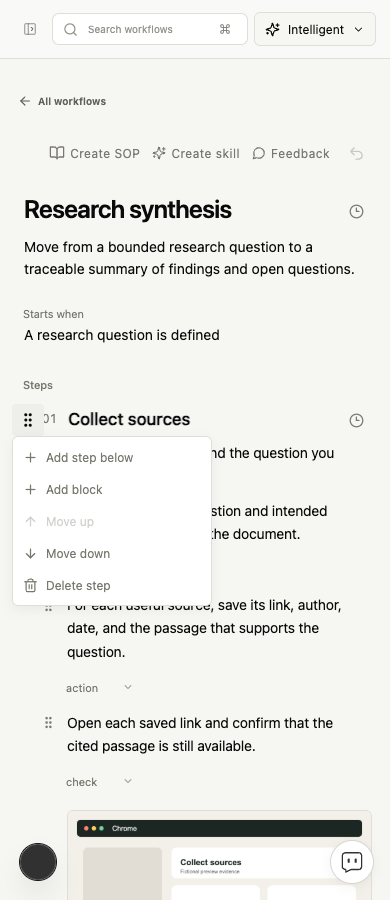
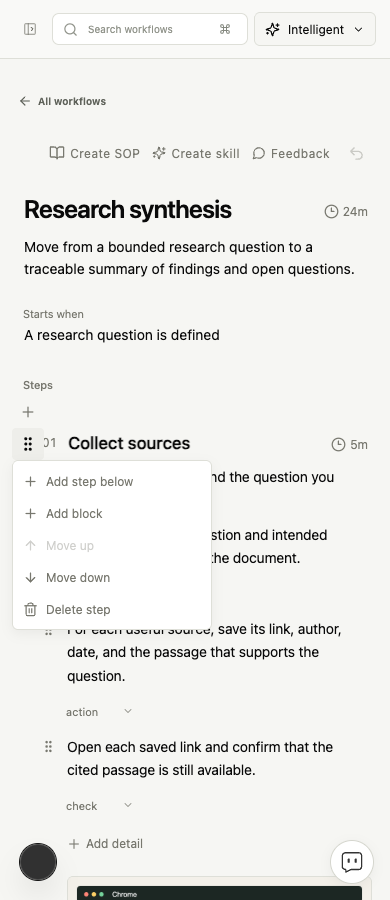
fix(workflows): restore plus controls and disclose measured timing

diff --git a/packages/workflows-ui/src/workflow-editor.tsx b/packages/workflows-ui/src/workflow-editor.tsx
@@ -1,7 +1,7 @@
 // screenpipe — AI that knows everything you've seen, said, or heard
 // https://screenpipe.com
 "use client";
-import { useEffect, useRef, useState, type ReactNode } from "react";
+import { Fragment, useEffect, useRef, useState, type ReactNode } from "react";
 import {
   ArrowDown,
   ArrowUp,
@@ -187,6 +187,15 @@ export function WorkflowEditor({ workflow, save, actions, renderSource, stepsOnl
     closeStepMenu(false);
     focusField(`Block ${stage.procedure.length + 1} in step ${index + 1}`);
   }
+  function insertion(index: number) {
+    return <div className={styles.insertion}>
+      <button type="button" aria-label={index === 0 ? "Add step at start" : `Add step after ${index}`}
+        title="Add step" disabled={draft.stages.length >= 100} onClick={() => addStage(index)}>
+        <Plus size={16} aria-hidden="true" />
+      </button>
+      <span />
+    </div>;
+  }
   function focusField(label: string) {
     requestAnimationFrame(() =>
       document
@@ -296,7 +305,7 @@ export function WorkflowEditor({ workflow, save, actions, renderSource, stepsOnl
         <div className={styles.intro}>
           <div className={styles.titleRow}>
           {stepsOnly ? <h1 className={styles.title}>{workflow.title}</h1> : <Text title label="Workflow title" value={draft.title} onChange={title => change({ ...draft, title })} />}
-          <TimingDisclosure label="Workflow timing" value={unchangedStages ? workflow.timing : null}
+          <TimingDisclosure hideWhenUnknown showDuration label="Workflow timing" value={unchangedStages ? workflow.timing : null}
             measured={unchangedStages && workflow.durationSource === "measured-meeting" ? { minutes: workflow.totalMinutes, samples: workflow.durationSampleCount ?? 0 } : undefined} />
           </div>
           {stepsOnly ? <p className={styles.readOnlyText}>{workflow.description}</p> : <Text label="Workflow description" value={draft.description} onChange={description => change({ ...draft, description })} />}
@@ -308,9 +317,10 @@ export function WorkflowEditor({ workflow, save, actions, renderSource, stepsOnl
         <div className={styles.stepsHeading}><strong>Steps</strong></div>
         <div className={styles.steps}>
           {draft.stages.map((stage, index) => (
+            <Fragment key={stage.key}>
+            {insertion(index)}
             <article
               className={`${styles.step} ${dragOver === index ? styles.drop : ""}`}
-              key={stage.key}
               aria-label={`Step ${index + 1}`}
               onDragOver={(e) => {
                 if (
@@ -400,7 +410,7 @@ export function WorkflowEditor({ workflow, save, actions, renderSource, stepsOnl
                 onChange={(name) => stageChange(index, { ...stage, name })}
               />
                 <div className={styles.stepActions}>
-                <TimingDisclosure label={`Timing for step ${index + 1}`} value={stage.sourceIndex !== null &&
+                <TimingDisclosure hideWhenUnknown showDuration label={`Timing for step ${index + 1}`} value={stage.sourceIndex !== null &&
                   isUnchangedStage(stage, workflow.stages[stage.sourceIndex])
                     ? workflow.stages[stage.sourceIndex]?.timing : null} />
                 </div>
@@ -539,8 +549,14 @@ export function WorkflowEditor({ workflow, save, actions, renderSource, stepsOnl
                   </div>
                 ))}
               </div>
+              {(!singleCheck || !stage.procedure.length) && <button type="button" className={styles.addDetail}
+                aria-label={singleCheck ? `Add expected result to step ${index + 1}` : `Add detail to step ${index + 1}`}
+                disabled={stage.procedure.length >= 100} onClick={() => addDetail(index)}>
+                <Plus size={14} aria-hidden="true" />{singleCheck ? "Add expected result" : "Add detail"}
+              </button>}
               {stage.sourceIndex !== null && workflow.stages[stage.sourceIndex] && <div className={styles.source}>{renderSource?.(workflow.stages[stage.sourceIndex])}</div>}
             </article>
+            </Fragment>
           ))}
         </div>
         <button
@@ -585,7 +601,7 @@ export function WorkflowDocument({ workflow, actions, sourceLabel, renderSource 
     <div className={styles.intro}>
       <div className={styles.titleRow}>
         <h1 className={styles.title}>{workflow.title}</h1>
-        <TimingDisclosure label="Workflow timing" value={workflow.timing}
+        <TimingDisclosure hideWhenUnknown showDuration label="Workflow timing" value={workflow.timing}
           measured={workflow.durationSource === "measured-meeting" ? { minutes: workflow.totalMinutes, samples: workflow.durationSampleCount ?? 0 } : undefined} />
       </div>
       <p className={styles.readOnlyText}>{workflow.description}</p>
@@ -597,7 +613,7 @@ export function WorkflowDocument({ workflow, actions, sourceLabel, renderSource 
         <div className={styles.stepTop}>
           <span className={styles.number}>{String(index + 1).padStart(2, "0")}</span>
           <h2 className={`${styles.title} ${styles.readOnlyText}`}>{stage.name}</h2>
-          <div className={styles.stepActions}><TimingDisclosure label={`Timing for step ${index + 1}`} value={stage.timing} /></div>
+          <div className={styles.stepActions}><TimingDisclosure hideWhenUnknown showDuration label={`Timing for step ${index + 1}`} value={stage.timing} /></div>
         </div>
         {stage.description && <WorkflowRichText label={`Step ${index + 1} description`} value={stage.description} />}
         <div className={styles.blocks}>

diff --git a/apps/screenpipe-app-tauri/components/workflows/workflow-timing.test.tsx b/apps/screenpipe-app-tauri/components/workflows/workflow-timing.test.tsx
@@ -30,6 +30,19 @@ describe("workflow elapsed timing", () => {
     expect(screen.getByRole("tooltip")).toHaveTextContent("30m median duration");
     expect(screen.getByRole("tooltip")).not.toHaveTextContent("on average");
   });
+  it("omits empty timing in documents and shows the duration when evidence exists", () => {
+    const view = render(<TimingDisclosure value={null} label="Timing" hideWhenUnknown showDuration />);
+    expect(screen.queryByRole("button", { name: "Timing" })).not.toBeInTheDocument();
+    view.rerender(<TimingDisclosure value={workflow.timing} label="Timing" hideWhenUnknown showDuration />);
+    const trigger = screen.getByRole("button", { name: "Timing" });
+    expect(trigger).toHaveTextContent("24m");
+    fireEvent.click(trigger);
+    expect(screen.getByRole("tooltip")).toHaveTextContent("3 observed runs");
+    fireEvent.keyDown(trigger, { key: "Escape" });
+    expect(screen.queryByRole("tooltip")).not.toBeInTheDocument();
+    view.rerender(<TimingDisclosure value={null} label="Timing" hideWhenUnknown showDuration measured={{ minutes: 30, samples: 1 }} />);
+    expect(screen.queryByRole("button", { name: "Timing" })).not.toBeInTheDocument();
+  });
   it("filters by average time, without classifying unknowns as short runs", () => {
     const unknown = { ...workflow, timing: null, durationSource: "unknown" as const };
     expect(filterWorkflows([workflow, unknown], { ...defaultWorkflowFilters, duration: "medium" })).toEqual([workflow]);
@@ -44,11 +57,9 @@ describe("workflow elapsed timing", () => {
     expect(screen.getByRole("tooltip")).toHaveTextContent("5m on average");
     fireEvent.mouseLeave(moved);
     fireEvent.change(screen.getByRole("textbox", { name: "Step 2 title" }), { target: { value: "Different scope" } });
-    fireEvent.mouseEnter(moved);
-    expect(screen.getByRole("tooltip")).toHaveTextContent("Time not measured yet");
-    fireEvent.mouseLeave(moved);
-    fireEvent.mouseEnter(screen.getByRole("button", { name: "Workflow timing" }));
-    expect(screen.getByRole("tooltip")).toHaveTextContent("Time not measured yet");
+    expect(screen.queryByRole("button", { name: "Timing for step 2" })).not.toBeInTheDocument();
+    expect(screen.queryByRole("button", { name: "Workflow timing" })).not.toBeInTheDocument();
+    expect(screen.queryByRole("tooltip")).not.toBeInTheDocument();
   });
   it("shows average, single and unknown cards without the removed evidence diagnostics", async () => {
     window.history.replaceState(null, "", "/home?mode=workflows");
@@ -89,8 +100,7 @@ describe("workflow elapsed timing", () => {
     expect(screen.getByRole("tooltip")).toHaveTextContent("5m on average");
     expect(screen.getByRole("tooltip")).toHaveTextContent("2 observed runs · 4m to 6m");
     fireEvent.mouseLeave(step);
-    fireEvent.focus(screen.getByRole("button", { name: "Timing for step 2" }));
-    expect(screen.getByRole("tooltip")).toHaveTextContent("Time not measured yet");
+    expect(screen.queryByRole("button", { name: "Timing for step 2" })).not.toBeInTheDocument();
     // Removing diagnostic chrome must not discard the persisted run boundaries.
     expect(workflowTiming(workflow.timing)).toMatchObject({ averageMinutes: 24, sampleCount: 3 });
   });

diff --git a/packages/workflows-ui/src/timing-disclosure.tsx b/packages/workflows-ui/src/timing-disclosure.tsx
@@ -7,13 +7,16 @@ import { workflowTiming, formatTimingMinutes } from "./timing";
 import styles from "./timing-disclosure.module.css";
 
 /** Lightweight, local disclosure: no requests, timers or per-row document listeners. */
-export function TimingDisclosure({ value, label, measured }: {
+export function TimingDisclosure({ value, label, measured, hideWhenUnknown = false, showDuration = false }: {
   value: unknown;
+  hideWhenUnknown?: boolean;
+  showDuration?: boolean;
   label: string;
   measured?: { minutes: number; samples: number };
 }) {
   const timing = workflowTiming(value);
   const recording = !timing && measured && Number.isFinite(measured.minutes) && measured.minutes > 0 && measured.samples >= 2 ? measured : null;
+  const hasTiming = Boolean(timing || recording);
   const [open, setOpen] = useState(false);
   const [above, setAbove] = useState(false);
   const [pinned, setPinned] = useState(false);
@@ -25,6 +28,7 @@ export function TimingDisclosure({ value, label, measured }: {
     setOpen(true);
   };
   const close = () => { setOpen(false); setPinned(false); };
+  useEffect(() => { if (hideWhenUnknown && !hasTiming) close(); }, [hideWhenUnknown, hasTiming]);
   useEffect(() => {
     if (!pinned) return;
     const dismiss = (event: PointerEvent) => {
@@ -33,14 +37,16 @@ export function TimingDisclosure({ value, label, measured }: {
     document.addEventListener("pointerdown", dismiss);
     return () => document.removeEventListener("pointerdown", dismiss);
   }, [pinned]);
+  if (hideWhenUnknown && !timing && !recording) return null;
   return <span ref={root} className={styles.root}
     onMouseEnter={show} onMouseLeave={() => { if (!pinned && !root.current?.contains(document.activeElement)) setOpen(false); }}
     onBlur={event => { if (!event.currentTarget.contains(event.relatedTarget as Node)) close(); }}
     onKeyDown={event => { if (event.key === "Escape") { event.stopPropagation(); close(); } }}>
-    <button type="button" className={styles.trigger} aria-label={label}
+    <button type="button" className={`${styles.trigger} ${showDuration ? styles.withDuration : ""}`} aria-label={label}
       aria-expanded={open} aria-controls={open ? id : undefined} aria-describedby={open ? id : undefined}
       onFocus={show} onClick={() => { if (pinned) close(); else { show(); setPinned(true); } }}>
       <Clock3 size={15} aria-hidden="true" />
+      {showDuration && (timing || recording) && <span aria-hidden="true">{formatTimingMinutes(timing ? timing.averageMinutes : recording!.minutes)}</span>}
     </button>
     {open && <span className={styles.anchor} data-above={above || undefined}><span id={id} role="tooltip" className={styles.content}>
       {timing ? <>

diff --git a/packages/workflows-ui/src/workflow-editor.module.css b/packages/workflows-ui/src/workflow-editor.module.css
@@ -134,3 +134,22 @@
   .readOnlyKind { grid-column: 1; grid-row: 2; }
   .stepApps { margin-left: 25px; }
 }
+
+/* Plus insertion follows the web document: reveal in the gap between steps. */
+.insertion + .step { margin-bottom: 4px; }
+.insertion { position: relative; display: flex; align-items: center; height: 24px; margin-left: -30px; padding-left: 30px; }
+.insertion > button { position: absolute; left: 0; opacity: 0; pointer-events: none; }
+.insertion > span { width: 100%; border-top: 1px solid transparent; }
+.insertion:hover > button, .insertion:focus-within > button { opacity: 1; pointer-events: auto; }
+.insertion:hover > span, .insertion:focus-within > span { border-color: var(--line); }
+.editor .addDetail { margin: 4px 0 4px 25px; font-size: 12px; gap: 5px; }
+/* Keep measured timing available without a permanent clock on every row. */
+.stepActions > span, .titleRow > span { opacity: 0; pointer-events: none; }
+.step:hover > .stepTop > .stepActions > span, .step:focus-within > .stepTop > .stepActions > span,
+.titleRow:hover > span, .titleRow:focus-within > span { opacity: 1; pointer-events: auto; }
+@media (hover: none) {
+  .insertion > button, .stepActions > span, .titleRow > span { opacity: 1; pointer-events: auto; }
+}
+@container workflow-editor (max-width: 560px) {
+  .editor .addDetail { margin-left: 21px; }
+}

diff --git a/packages/workflows-ui/src/timing-disclosure.module.css b/packages/workflows-ui/src/timing-disclosure.module.css
@@ -10,3 +10,5 @@
 .content small { color: var(--muted); font-size: 11px; }
 
 .anchor[data-above] { top: auto; bottom: 100%; padding-top: 0; padding-bottom: 4px; }
+
+.root .trigger.withDuration { width: auto; gap: 4px; white-space: nowrap; font: inherit; }
